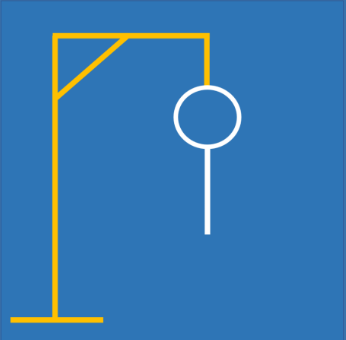
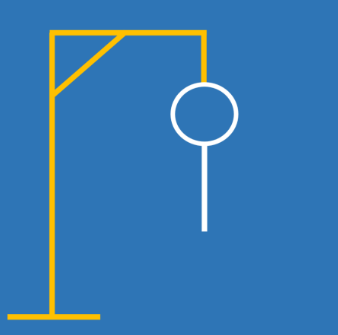
Changed CSS

Changed region(s): [[0.0, 0.0896, 0.7101, 0.9552], [0.503, 0.2985, 0.6509, 0.7164]]

diff --git a/style.css b/style.css
@@ -1,21 +1,27 @@
 body {
-    background-color: rgb(237, 234, 37);
+    background-color: #2e75b6;
   }
 .letters{
     text-align: center;
-    margin-top: 50px;
+    margin-top: 20px;
+    font-size: 30px;
+    font-weight: bold;
+    color: #fbf3da;
+    letter-spacing: 5px;
+    text-shadow: 3px 3px 15px #c5c5c5, -2px 1px 30px #030200;
 }
 .button{
     margin: 10px;
-    background-color: rgb(176, 174, 47);
+    background-color:#ecbc10;
     cursor: pointer;
     box-shadow: 0 5px #999;
     text-align: center;
     font-size: 15px;
     width: 100px;
+    border: 1px solid #000000 ;
   }
   .button:active {
-    background-color: rgb(176, 174, 47);
+    background-color:#ecbc10;
     box-shadow: 0 5px #666666;
     transform: translateY(4px);
   }
@@ -23,7 +29,6 @@ body {
 img{
     width: 200px;
     height: 200px;
-    border: 2px solid black;
     display: block;
     margin-left: auto;
     margin-right: auto;

diff --git a/javascript.js b/javascript.js
@@ -46,7 +46,7 @@ for (let i = 0; i < button.length; i++){
         button[i].disabled = true;
         if(!random_word.toLowerCase().includes(button_value.toLowerCase())){
             lose_count += 1;
-            // console.log(lose_count)
+            
         }
         if(lose_count == 1){
             image.setAttribute('src',"image-2.PNG")
@@ -74,7 +74,7 @@ for (let i = 0; i < button.length; i++){
                 
             }
         }
-        // console.log(word_length)
+        
         word_to_guess.innerHTML = word_length;
         if(!word_length.includes("_")){
             status_game.innerText = "You Win !!"
@@ -87,7 +87,8 @@ function setCharAt(str,index,chr) {
     if(index > str.length-1) return str;
     return str.substring(0,index) + chr + str.substring(index+1);
 }
-console.log(random_word)
+
+//console.log(random_word)
 
 
 
